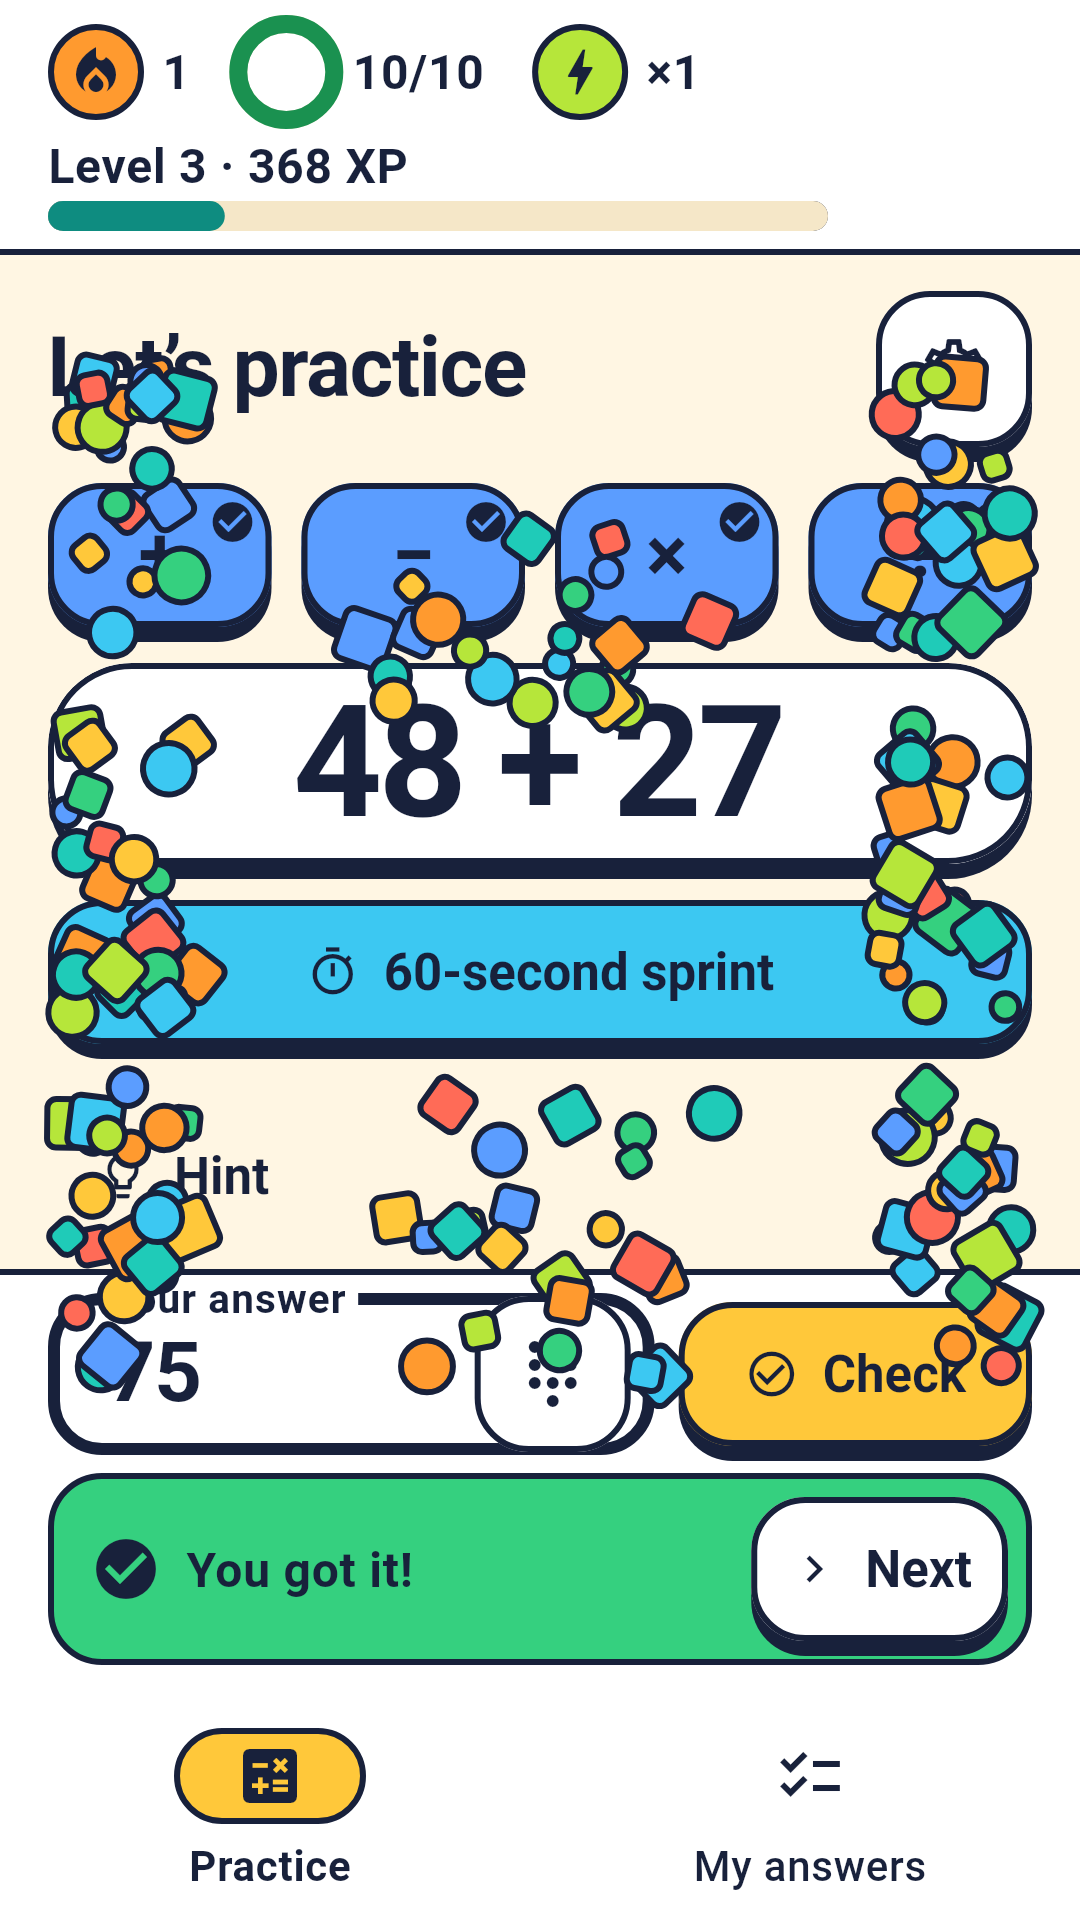
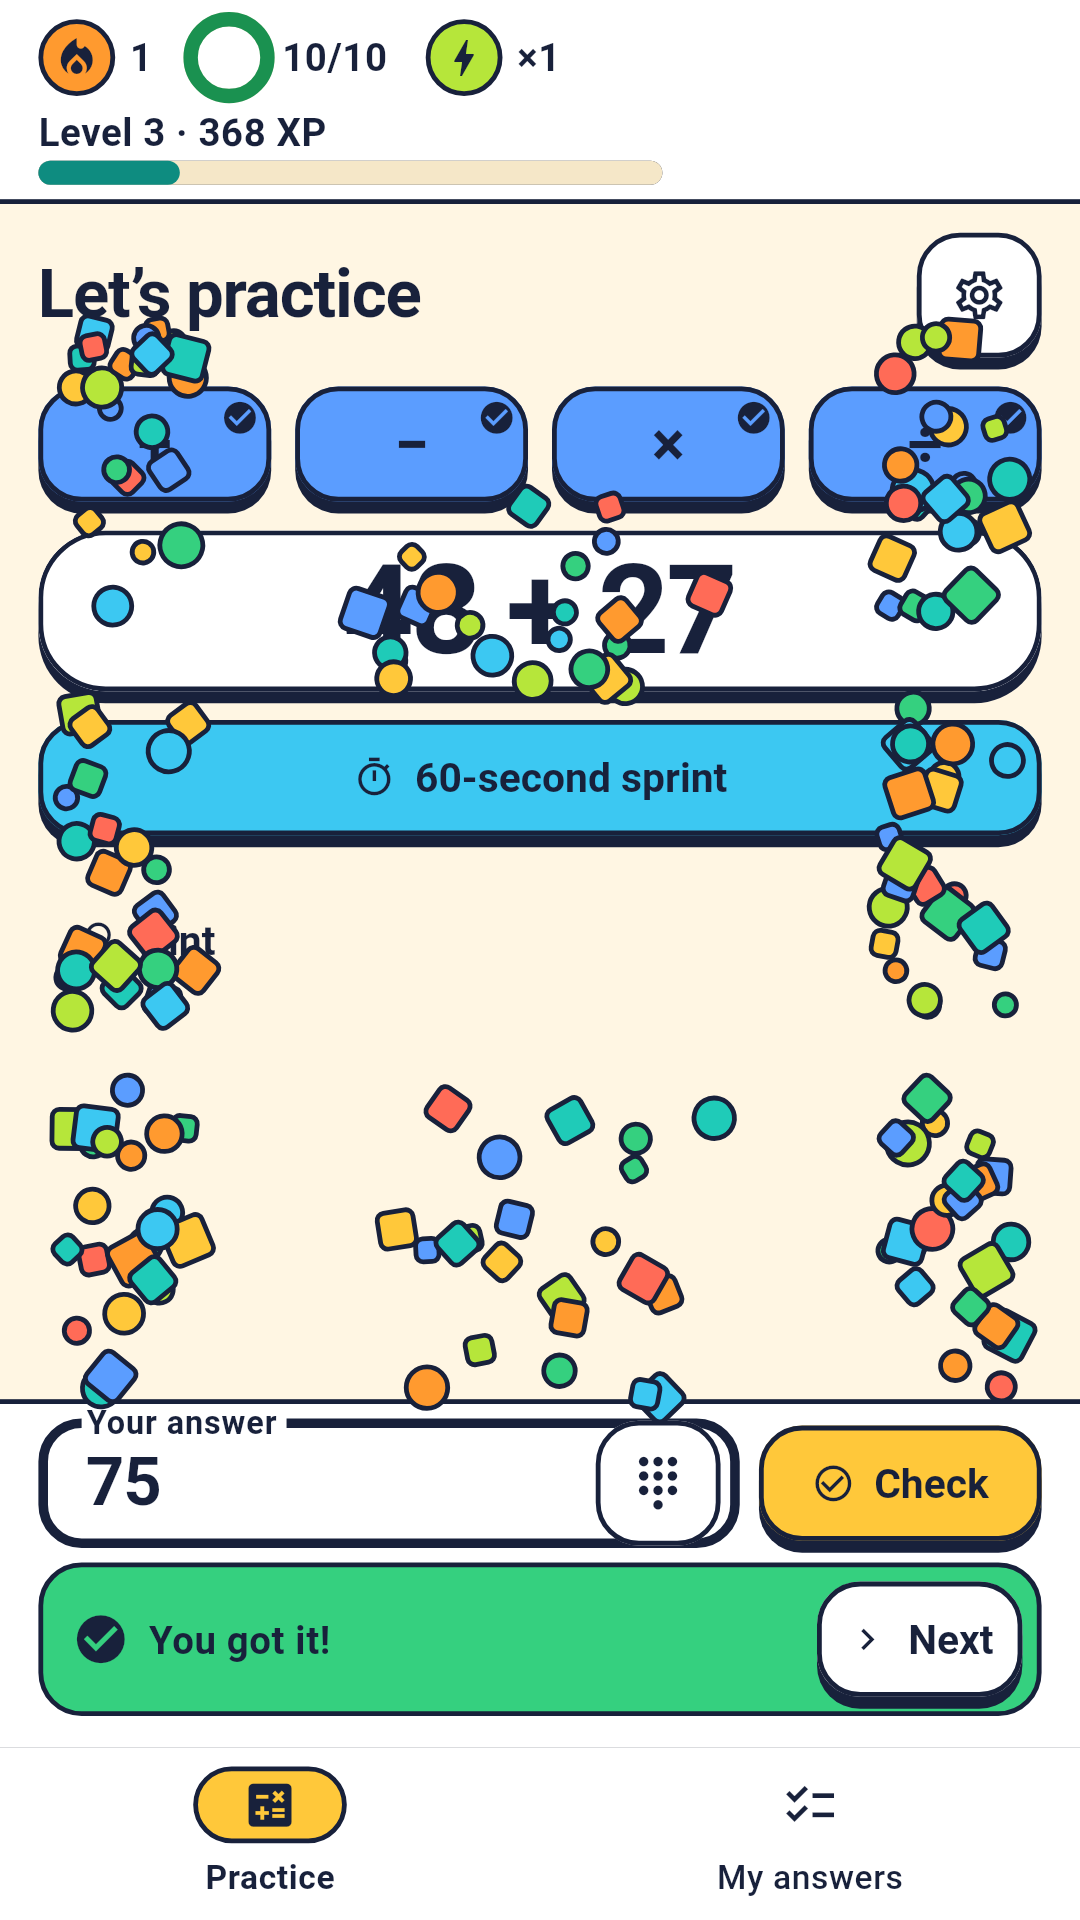
Shoot the Play screenshots on a bigger phone and add a compact one
The owner found the 360 x 640 shots cramped. They now show a 450 x 800 dp
phone at a pixel ratio of 2.4 (still 1080 x 1920), picked with the new
SCREENSHOT_SIZE setting, and a seventh shot shows the compact answers.

diff --git a/app/tool/screenshots_test.dart b/app/tool/screenshots_test.dart
@@ -131,7 +131,7 @@ void main() {
     final render =
         boundary.currentContext!.findRenderObject()! as RenderRepaintBoundary;
     await tester.runAsync(() async {
-      // SCREENSHOT_PIXEL_RATIO=3 at 360x640 gives Play's 1080x1920.
+      // SCREENSHOT_PIXEL_RATIO=2.4 at 450x800 gives Play's 1080x1920.
       final image = await render.toImage(
         pixelRatio: double.parse(
           Platform.environment['SCREENSHOT_PIXEL_RATIO'] ?? '1',
@@ -184,14 +184,20 @@ void main() {
       .position
       .jumpTo(offset);
 
+  // SCREENSHOT_SIZE=450x800 (with SCREENSHOT_PIXEL_RATIO=2.4) shoots only
+  // that size: the Play Store phone screenshots, 1080x1920.
+  final only = Platform.environment['SCREENSHOT_SIZE']?.split('x');
   for (final brightness in Brightness.values) {
-    for (final size in const [
-      Size(360, 640),
-      Size(412, 720),
-      Size(360, 800),
-      Size(800, 1000),
-      Size(1280, 900),
-    ]) {
+    for (final size
+        in only != null
+            ? [Size(double.parse(only[0]), double.parse(only[1]))]
+            : const [
+                Size(360, 640),
+                Size(412, 720),
+                Size(360, 800),
+                Size(800, 1000),
+                Size(1280, 900),
+              ]) {
       final tag =
           '${brightness.name}-${size.width.toInt()}x${size.height.toInt()}';
       testWidgets('screenshots $tag', (tester) async {

diff --git a/docs/play-store/README.md b/docs/play-store/README.md
@@ -2,8 +2,8 @@
 
 - `icon-512.png`: 512 x 512, 32-bit PNG, full bleed (Play applies its own mask).
 - `feature-graphic-1024x500.png`: 1024 x 500, no alpha.
-- `phone-1-practice.png` to `phone-6-dark.png`: phone screenshots, 1080 x 1920 (9:16), 24-bit PNG without alpha.
-  Made with `SCREENSHOT_DIR=<dir> SCREENSHOT_PIXEL_RATIO=3 flutter test tool/screenshots_test.dart --plain-name 360x640`
+- `phone-1-practice.png` to `phone-7-compact.png`: phone screenshots of a 450 x 800 dp phone, 1080 x 1920 (9:16), 24-bit PNG without alpha.
+  Made with `SCREENSHOT_DIR=<dir> SCREENSHOT_SIZE=450x800 SCREENSHOT_PIXEL_RATIO=2.4 flutter test tool/screenshots_test.dart`
   (in `app/`), then `magick <shot>.png -background white -alpha remove -alpha off PNG24:<name>.png`.
 
 Both files are generated from the SVG sources in `app/assets/branding/`:

diff --git a/docs/play-store.md b/docs/play-store.md
@@ -60,7 +60,7 @@ Stored in [`docs/play-store/`](play-store/) (see its README for how they are mad
 |---|---|---|
 | App icon | 512 x 512 PNG | [`play-store/icon-512.png`](play-store/icon-512.png) |
 | Feature graphic | 1024 x 500 PNG or JPEG, no alpha | [`play-store/feature-graphic-1024x500.png`](play-store/feature-graphic-1024x500.png) |
-| Phone screenshots | 2 to 8, 9:16, 1080 x 1920 | `play-store/phone-1-practice.png` to `play-store/phone-6-dark.png`, uploaded in that order |
+| Phone screenshots | 2 to 8, 9:16, 1080 x 1920 | `play-store/phone-1-practice.png` to `play-store/phone-7-compact.png`, uploaded in that order |
 
 ## App content declarations
 
